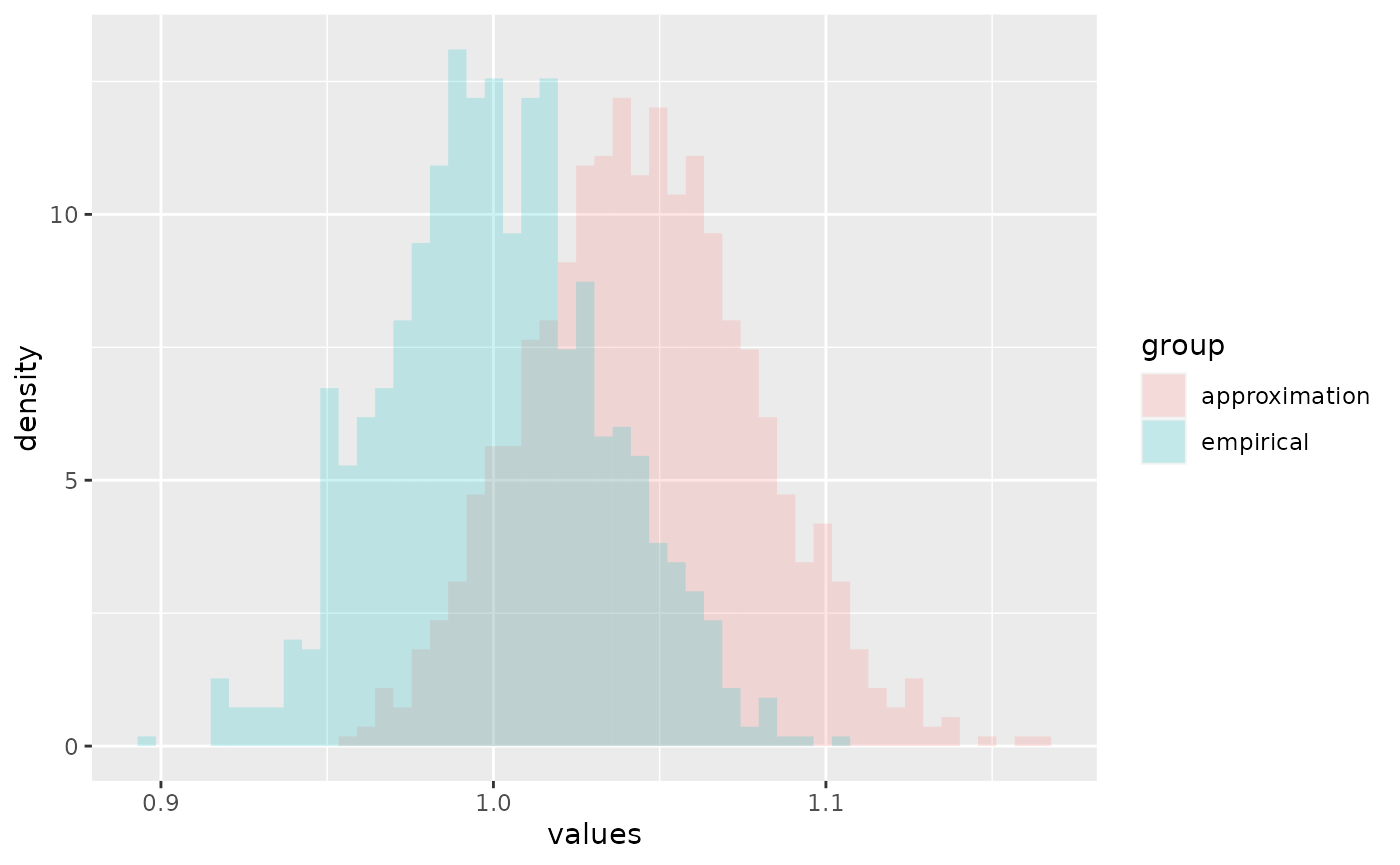
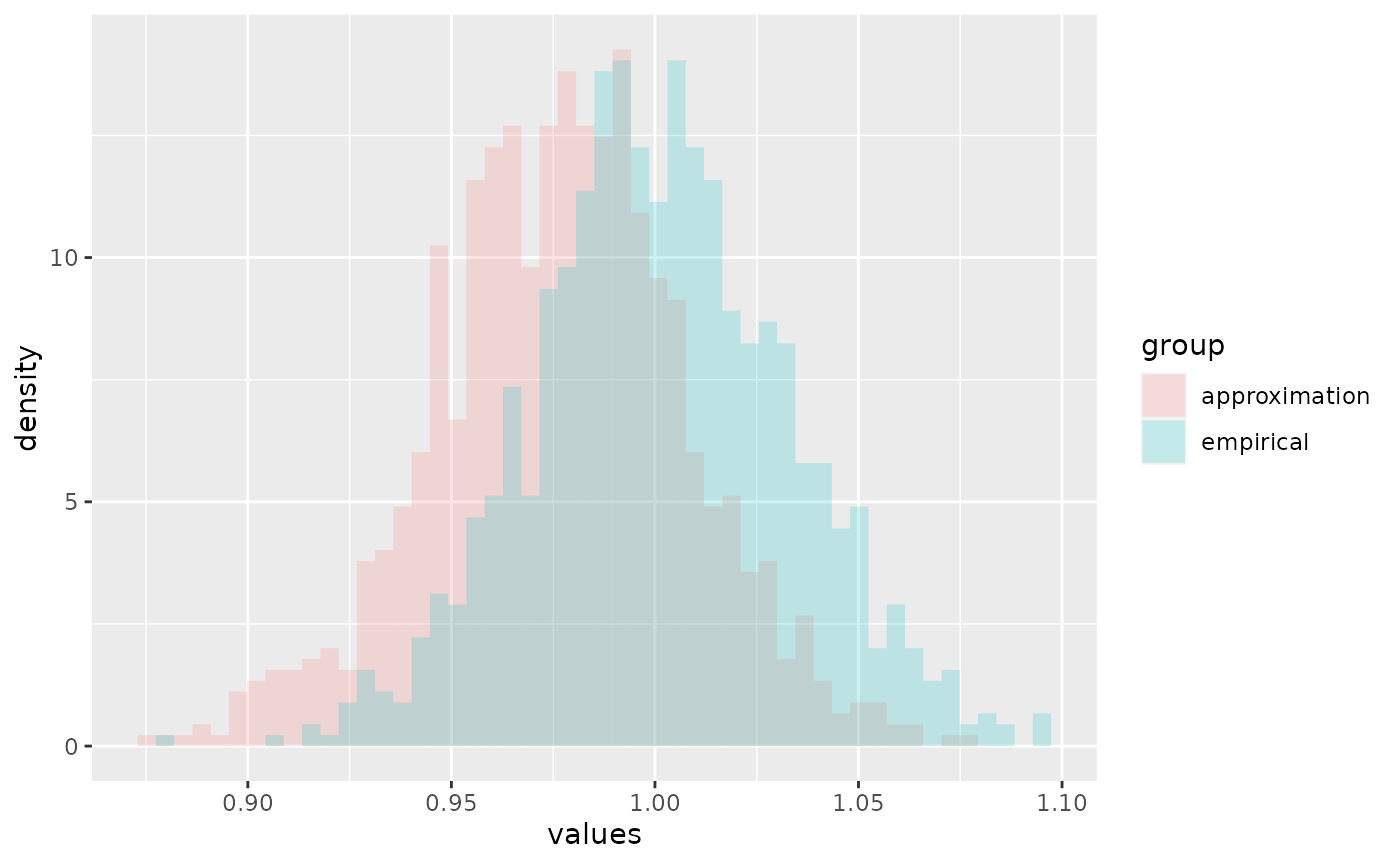
Built site for algebraic.mle: 0.9.0@b7bec2a

diff --git a/articles/exponential-mle.html b/articles/exponential-mle.html
@@ -105,10 +105,10 @@
 <span class="co">#&gt; <span style="color: #949494;"># A tibble: 4 × 1</span></span>
 <span class="co">#&gt;       x</span>
 <span class="co">#&gt;   <span style="color: #949494; font-style: italic;">&lt;dbl&gt;</span></span>
-<span class="co">#&gt; <span style="color: #BCBCBC;">1</span> 0.637</span>
-<span class="co">#&gt; <span style="color: #BCBCBC;">2</span> 0.654</span>
-<span class="co">#&gt; <span style="color: #BCBCBC;">3</span> 1.67 </span>
-<span class="co">#&gt; <span style="color: #BCBCBC;">4</span> 0.596</span></code></pre></div>
+<span class="co">#&gt; <span style="color: #BCBCBC;">1</span> 0.408</span>
+<span class="co">#&gt; <span style="color: #BCBCBC;">2</span> 1.19 </span>
+<span class="co">#&gt; <span style="color: #BCBCBC;">3</span> 0.251</span>
+<span class="co">#&gt; <span style="color: #BCBCBC;">4</span> 0.641</span></code></pre></div>
 <p>We show a histogram of the sample overlaid with a plot of the exponential function’s pdf, with:</p>
 <div class="sourceCode" id="cb5"><pre class="downlit sourceCode r">
 <code class="sourceCode R"><span class="fu"><a href="https://ggplot2.tidyverse.org/reference/ggplot.html" class="external-link">ggplot</a></span><span class="op">(</span><span class="va">x</span>, <span class="fu"><a href="https://ggplot2.tidyverse.org/reference/aes.html" class="external-link">aes</a></span><span class="op">(</span>x<span class="op">=</span><span class="va">x</span><span class="op">)</span><span class="op">)</span> <span class="op">+</span> <span class="fu"><a href="https://ggplot2.tidyverse.org/reference/geom_histogram.html" class="external-link">geom_histogram</a></span><span class="op">(</span><span class="fu"><a href="https://ggplot2.tidyverse.org/reference/aes.html" class="external-link">aes</a></span><span class="op">(</span>y<span class="op">=</span><span class="va">..density..</span><span class="op">)</span>,alpha<span class="op">=</span><span class="fl">.2</span><span class="op">)</span> <span class="op">+</span>
@@ -125,35 +125,35 @@
 <span class="fu"><a href="https://rdrr.io/r/base/summary.html" class="external-link">summary</a></span><span class="op">(</span><span class="va">rate.hat</span><span class="op">)</span>
 <span class="co">#&gt; Maximum likelihood estimator, of type mle ,</span>
 <span class="co">#&gt; is normally distributed with mean</span>
-<span class="co">#&gt; [1] 1.046353</span>
+<span class="co">#&gt; [1] 0.9762777</span>
 <span class="co">#&gt; and variance-covariance</span>
-<span class="co">#&gt;             [,1]</span>
-<span class="co">#&gt; [1,] 0.001094855</span>
+<span class="co">#&gt;              [,1]</span>
+<span class="co">#&gt; [1,] 0.0009531182</span>
 <span class="co">#&gt; ---</span>
-<span class="co">#&gt; The asymptotic mean squared error 0.001094855 </span>
+<span class="co">#&gt; The asymptotic mean squared error 0.0009531182 </span>
 <span class="co">#&gt; The asymptotic 95% confidence interval is</span>
 <span class="co">#&gt;       2.5 %   97.5 %</span>
-<span class="co">#&gt; 1 0.9919273 1.100779</span>
-<span class="co">#&gt; The log-likelihood is -954.6891 </span>
-<span class="co">#&gt; The AIC is 1911.378</span></code></pre></div>
+<span class="co">#&gt; 1 0.9254968 1.027059</span>
+<span class="co">#&gt; The log-likelihood is -1024.008 </span>
+<span class="co">#&gt; The AIC is 2050.016</span></code></pre></div>
 <p>We can show the point estimator with:</p>
 <div class="sourceCode" id="cb7"><pre class="downlit sourceCode r">
 <code class="sourceCode R"><span class="fu"><a href="../reference/point.html">point</a></span><span class="op">(</span><span class="va">rate.hat</span><span class="op">)</span>
-<span class="co">#&gt; [1] 1.046353</span></code></pre></div>
+<span class="co">#&gt; [1] 0.9762777</span></code></pre></div>
 <p>We can show the Fisher information and variance-covariance matrices with:</p>
 <div class="sourceCode" id="cb8"><pre class="downlit sourceCode r">
 <code class="sourceCode R"><span class="fu"><a href="../reference/fisher_info.html">fisher_info</a></span><span class="op">(</span><span class="va">rate.hat</span><span class="op">)</span>
-<span class="co">#&gt;         [,1]</span>
-<span class="co">#&gt; [1,] 913.363</span>
+<span class="co">#&gt;          [,1]</span>
+<span class="co">#&gt; [1,] 1049.188</span>
 <span class="fu"><a href="https://rdrr.io/r/stats/vcov.html" class="external-link">vcov</a></span><span class="op">(</span><span class="va">rate.hat</span><span class="op">)</span>
-<span class="co">#&gt;             [,1]</span>
-<span class="co">#&gt; [1,] 0.001094855</span></code></pre></div>
+<span class="co">#&gt;              [,1]</span>
+<span class="co">#&gt; [1,] 0.0009531182</span></code></pre></div>
 <p>(If <code>rate.hat</code> had been a vector, <code>vcov</code> would have output a variance-covariance matrix. We may consider the above outputs <span class="math inline">\(1 \times 1\)</span> matrices.)</p>
 <p>We can show the confidence interval with:</p>
 <div class="sourceCode" id="cb9"><pre class="downlit sourceCode r">
 <code class="sourceCode R"><span class="fu"><a href="https://rdrr.io/r/stats/confint.html" class="external-link">confint</a></span><span class="op">(</span><span class="va">rate.hat</span><span class="op">)</span>
 <span class="co">#&gt;       2.5 %   97.5 %</span>
-<span class="co">#&gt; 1 0.9919273 1.100779</span></code></pre></div>
+<span class="co">#&gt; 1 0.9254968 1.027059</span></code></pre></div>
 <div class="section level3">
 <h3 id="sampling-distribution-of-the-mle">Sampling distribution of the MLE<a class="anchor" aria-label="anchor" href="#sampling-distribution-of-the-mle"></a>
 </h3>
@@ -206,10 +206,10 @@
 <div class="sourceCode" id="cb15"><pre class="downlit sourceCode r">
 <code class="sourceCode R"><span class="fu"><a href="../reference/point.html">point</a></span><span class="op">(</span><span class="va">f.hat</span><span class="op">)</span>
 <span class="co">#&gt;          [,1]</span>
-<span class="co">#&gt; [1,] 2.092706</span>
+<span class="co">#&gt; [1,] 1.952555</span>
 <span class="fu"><a href="https://rdrr.io/r/stats/vcov.html" class="external-link">vcov</a></span><span class="op">(</span><span class="va">f.hat</span><span class="op">)</span>
 <span class="co">#&gt;             [,1]</span>
-<span class="co">#&gt; [1,] 0.004114941</span></code></pre></div>
+<span class="co">#&gt; [1,] 0.003828861</span></code></pre></div>
 </div>
 </div>
 </div>
@@ -249,8 +249,8 @@
 <span class="fu"><a href="https://tibble.tidyverse.org/reference/rownames.html" class="external-link">rownames</a></span><span class="op">(</span><span class="va">df</span><span class="op">)</span> <span class="op">&lt;-</span> <span class="fu"><a href="https://rdrr.io/r/base/c.html" class="external-link">c</a></span><span class="op">(</span><span class="st">"weighted MLE"</span>, <span class="st">"MLE"</span><span class="op">)</span>
 <span class="fu"><a href="https://rdrr.io/r/base/print.html" class="external-link">print</a></span><span class="op">(</span><span class="va">df</span><span class="op">)</span>
 <span class="co">#&gt;              point estimate     variance</span>
-<span class="co">#&gt; weighted MLE      0.9668634 0.0009375704</span>
-<span class="co">#&gt; MLE               0.9697030 0.0009403240</span></code></pre></div>
+<span class="co">#&gt; weighted MLE      0.9608463 0.0009283218</span>
+<span class="co">#&gt; MLE               0.9661501 0.0009334461</span></code></pre></div>
 <p>We see that <span class="math inline">\(\hat\theta\)</span> and <span class="math inline">\(\hat\theta_w\)</span> model approximately the same sampling distribution for <span class="math inline">\(\theta\)</span>.</p>
 </div>
 </div>

diff --git a/reference/mle_newton_raphson.html b/reference/mle_newton_raphson.html
@@ -60,8 +60,8 @@
     <div class="sourceCode"><pre class="sourceCode r"><code><span class="fu">mle_newton_raphson</span><span class="op">(</span>
   <span class="va">l</span>,
   <span class="va">theta0</span>,
-  <span class="va">info</span>,
-  <span class="va">score</span>,
+  info <span class="op">=</span> <span class="kw">function</span><span class="op">(</span><span class="va">theta</span><span class="op">)</span> <span class="op">-</span><span class="fu">hessian</span><span class="op">(</span><span class="va">l</span>, <span class="va">theta</span><span class="op">)</span>,
+  score <span class="op">=</span> <span class="kw">function</span><span class="op">(</span><span class="va">theta</span><span class="op">)</span> <span class="fu">grad</span><span class="op">(</span><span class="va">l</span>, <span class="va">theta</span><span class="op">)</span>,
   stop_cond <span class="op">=</span> <span class="cn">NULL</span>,
   sup <span class="op">=</span> <span class="cn">NULL</span>,
   eta <span class="op">=</span> <span class="fl">1</span>,
@@ -78,9 +78,9 @@
 <dt>theta0</dt>
 <dd><p>initial guess of theta with <code>p</code> components</p></dd>
 <dt>info</dt>
-<dd><p>information matrix function of type <code>R^p -&gt; R^{p-by-q}</code></p></dd>
+<dd><p>information matrix function of type <code>R^p -&gt; R^{p-by-q}</code>, defaults to taking the negative of the hessian of <code>l</code>.</p></dd>
 <dt>score</dt>
-<dd><p>score function of type <code>R^p -&gt; R^p</code></p></dd>
+<dd><p>score function of type <code>R^p -&gt; R^p</code>, defaults to taking the gradient of <code>l</code>.</p></dd>
 <dt>stop_cond</dt>
 <dd><p>stopping condition function of type <code>(R^p,R^p) -&gt; {T,F}</code></p></dd>
 <dt>sup</dt>
